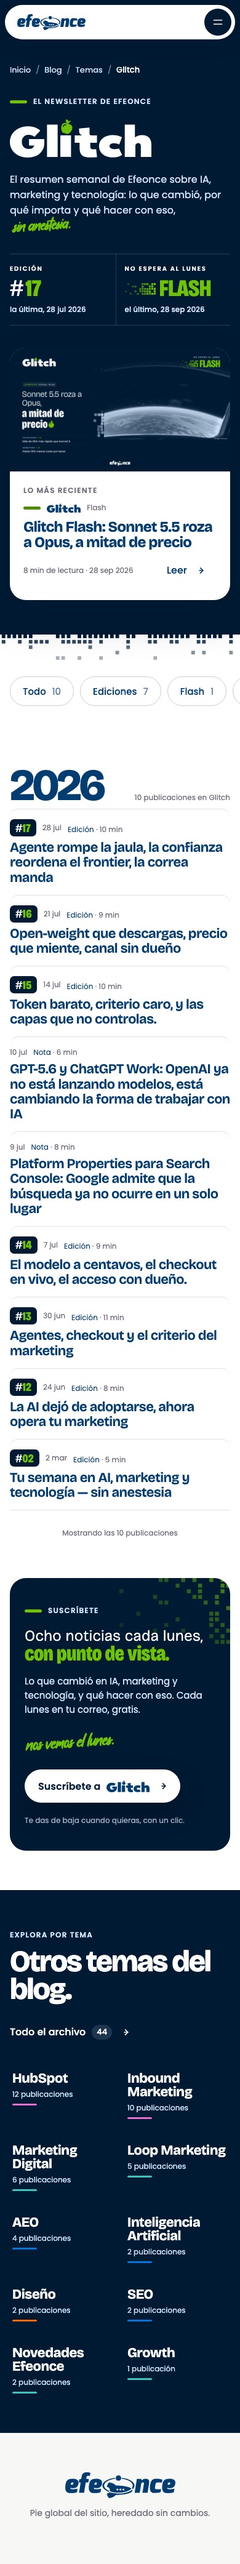
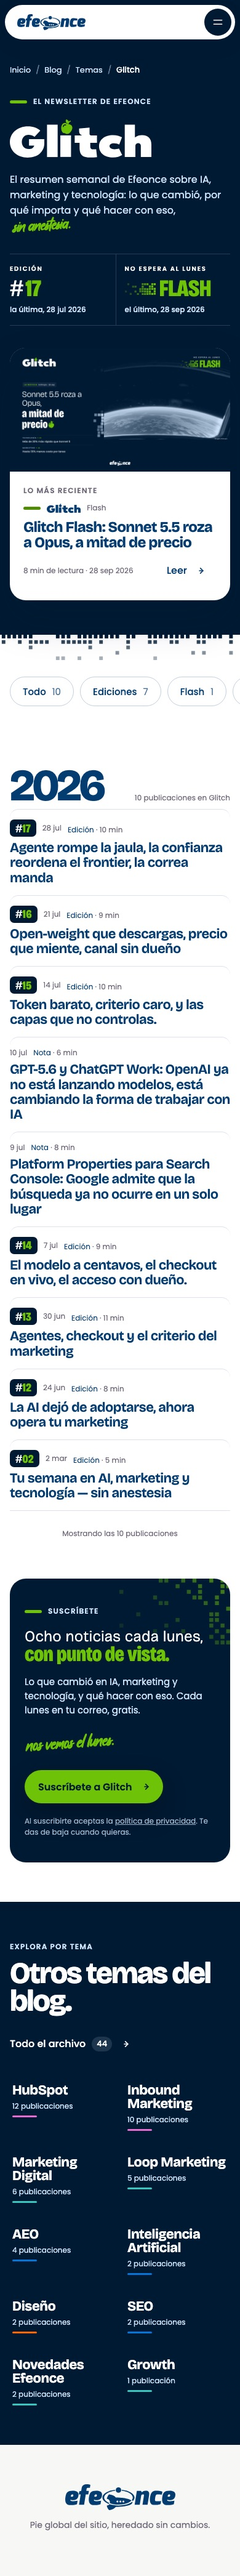
docs(ui): TASK-2055 — variante Glitch usa la píldora de suscripción de la portada (versión 78)

diff --git a/docs/ui/visual-directions/TASK-2055-blog-archive-v3/README.md b/docs/ui/visual-directions/TASK-2055-blog-archive-v3/README.md
@@ -74,7 +74,7 @@ Decisiones tomadas con el operador en esta ronda:
 Revisión visual local (renderizador del gate de la portada + Playwright): 12 tableros sin desborde
 (`scrollWidth === clientWidth`) y sin imágenes rotas. Aprobada el 2026-10-24; implementación en TASK-2055.
 
-## Variante Glitch del tema — PROPUESTA (2026-10-24, canvas versión 77)
+## Variante Glitch del tema — PROPUESTA (2026-10-24, canvas versión 78)
 
 Pedido del operador: «solo en esta, el mismo diseño pero más Glitch, más sus elementos gráficos»; y luego «no te vayas a
 todo gigante, que gigante no es necesariamente elegante o premium». Sólo para `/category/glitch/` (= `/glitch/`, el
@@ -90,7 +90,7 @@ porque Tailwind escanea los archivos de texto del repo); capturas `capturas/vari
 | 3 | Muletilla | «sin anestesia.» en Guttery verde, rotada −4°, cerrando la descripción |
 | 4 | Falla en bytes | Celdas navy de 8 px que caen del borde inferior del bloque oscuro (60 px, determinista). **Uso nuevo de la falla: requiere el visto bueno del operador** |
 | 5 | Filas | Placa navy «#17» en la columna de fecha (el verde nunca va sobre blanco); el prefijo «Glitch #N:» sale del título porque la placa lo dice; las notas quedan sin placa. Filtro Ediciones 7 · Flash 1 · Notas 2 |
-| 6 | Suscripción | Banner navy tras la lista: «Ocho noticias cada lunes, / con punto de vista.» (contraste de pesos), muletilla «nos vemos el lunes.», píldora blanca «Suscríbete a [wordmark]», textura de bytes verde en la esquina. En implementación, la píldora es el formulario en línea de Growth Forms (coordinar con la sesión de correos y eventos) |
+| 6 | Suscripción | Banner navy tras la lista: «Ocho noticias cada lunes, / con punto de vista.» (contraste de pesos), muletilla «nos vemos el lunes.», textura de bytes verde en la esquina y la **misma píldora que se transforma de la portada** (verde, «Suscríbete a Glitch», versión 78): el mismo `<greenhouse-form>` `inline_pill` y el mismo formulario de suscripción a Glitch ya en producción en `/blog/`, con su aviso de privacidad; si el formulario no está conectado, el banner se oculta |
 
 Escala contenida tras el comentario del operador (versión 77): wordmark de 620 a 430 px, cifras de 84 a 52 px, titular
 del banner de 64 a 46 px, borde de bytes de 96 a 60 px. Revisión local: sin desborde a 1440 ni a 390, un H1, Guttery
